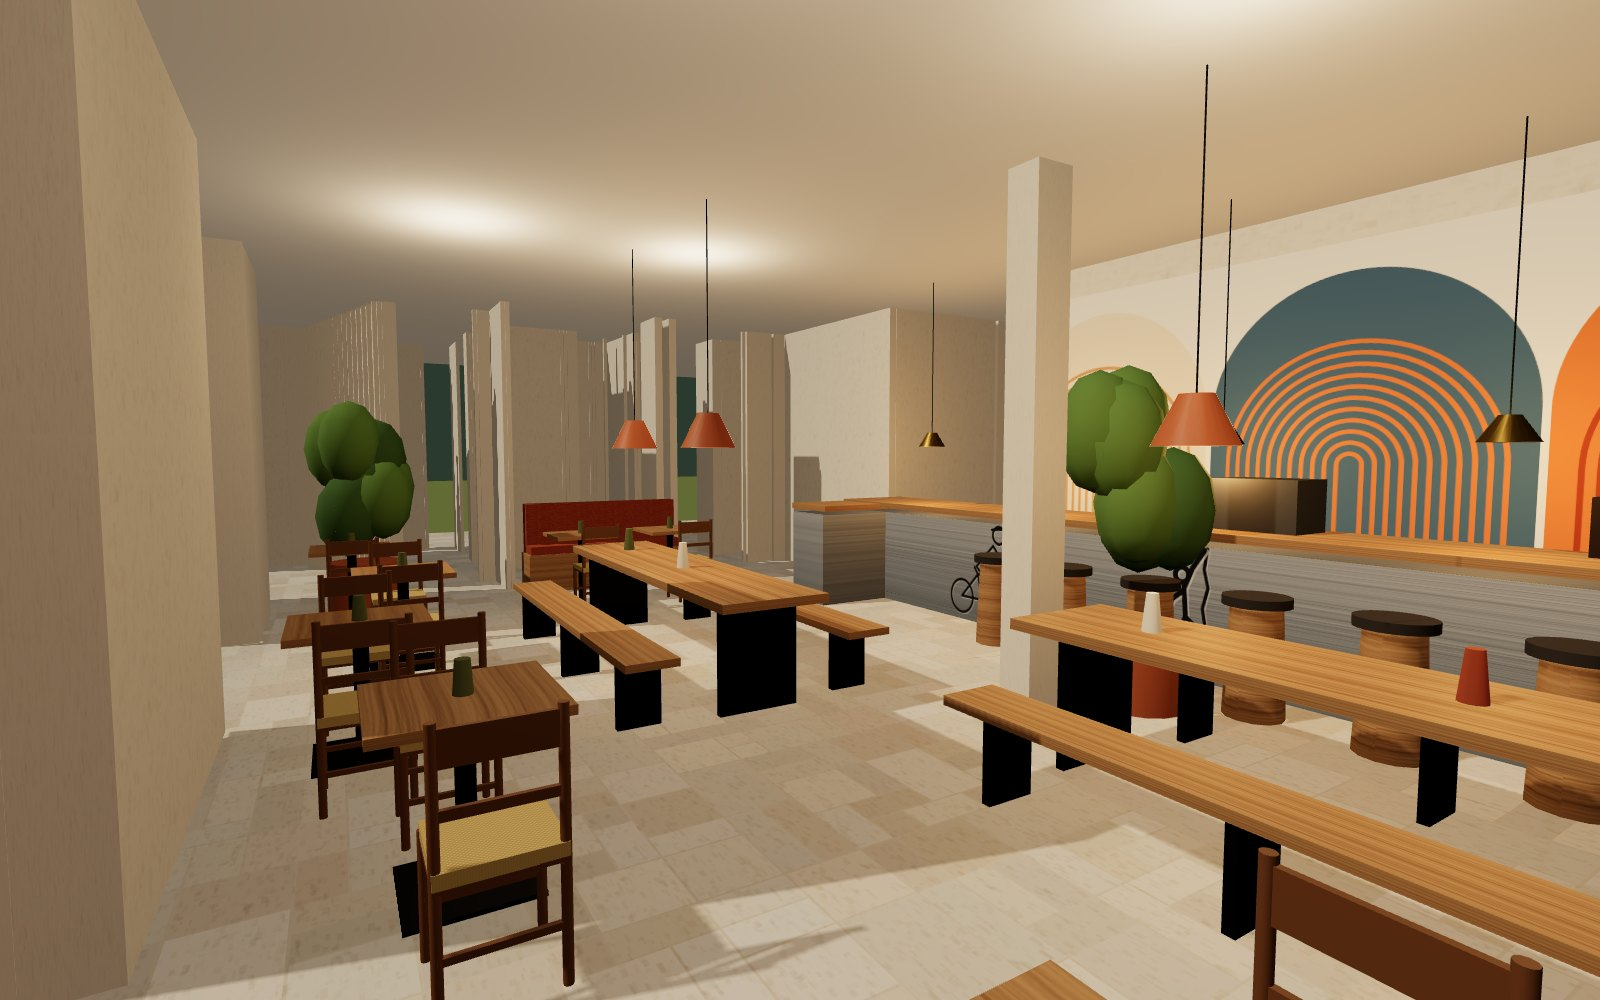
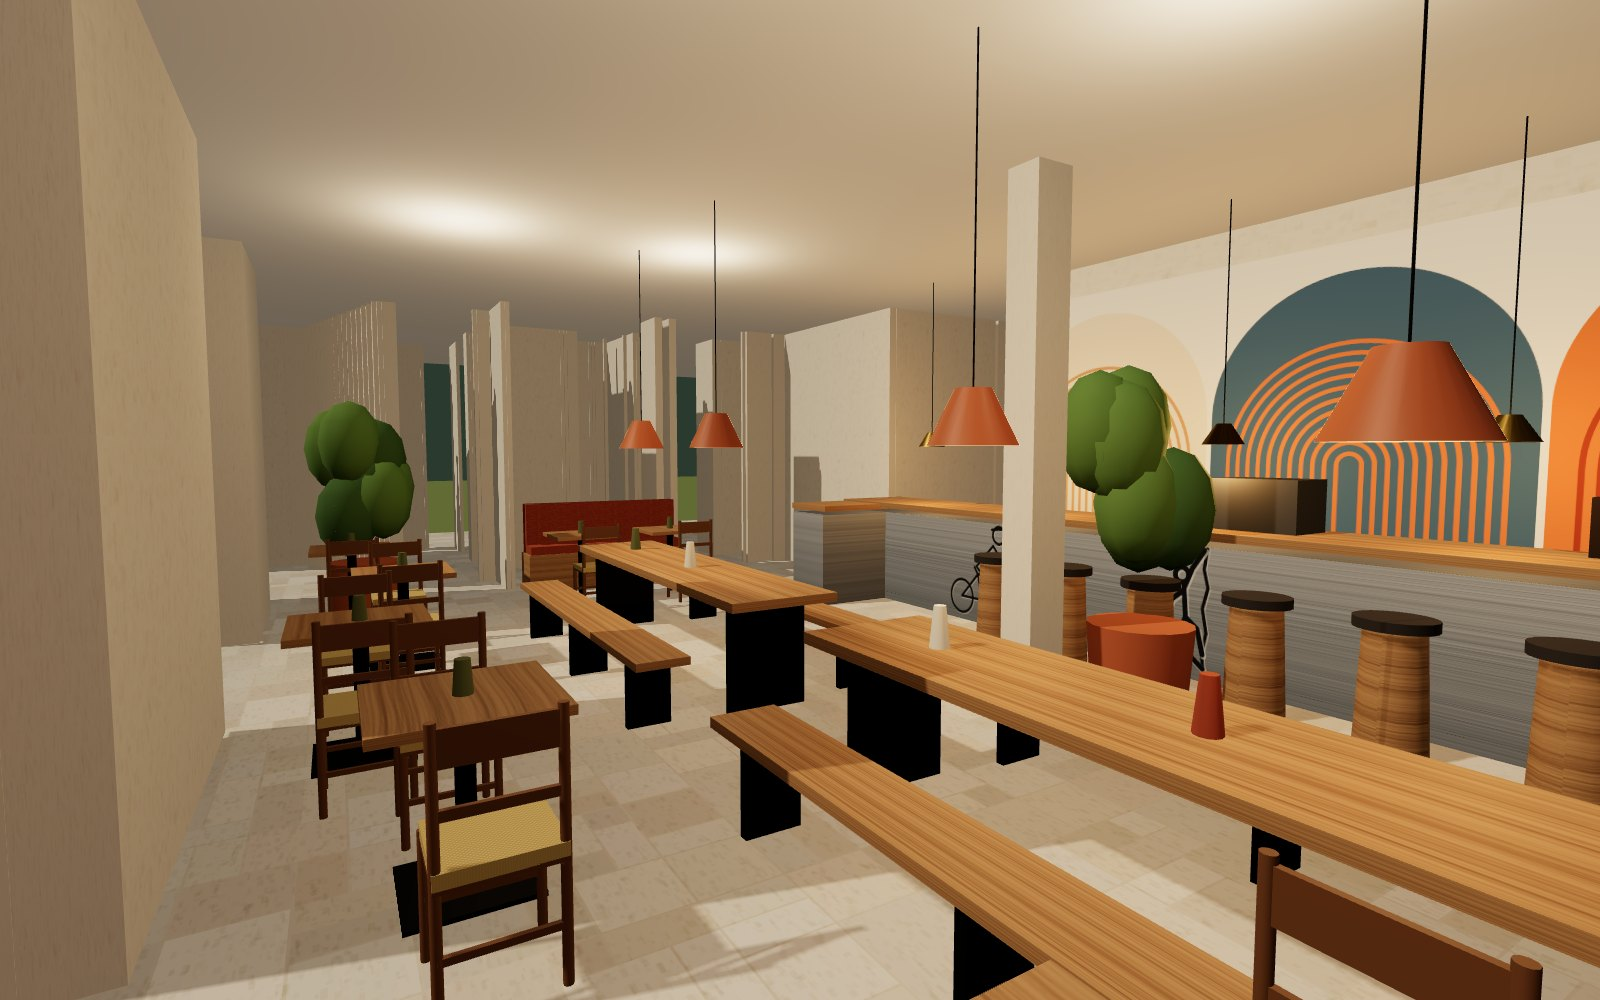
Sala: due tavolate lunghe uguali e allineate
Claude-Session: https://claude.ai/code/session_01QZXxqty357DcebAAL5Vpaf

diff --git a/render-3d/sala-tavoli-misti/sorgente/pianoterra.js b/render-3d/sala-tavoli-misti/sorgente/pianoterra.js
@@ -375,7 +375,7 @@ else { box(P(210), P(1450), HS, HS + 0.06, P(840), P(1110), M('#e9e2d6', { trans
       for (const x of [x0 + 0.35, (x0 + x1) / 2, x1 - 0.4]) { box(x, x + 0.05, 0, 0.42, bz - 0.14, bz + 0.14, ironM); } }
     for (let x = x0 + 0.6; x < x1 - 0.4; x += 1.3) cyl(x, (z0 + z1) / 2, 0.05, 0.78, 0.98, M(tc[Math.floor(rnd() * 3)]), 12, 0.03);
     for (let x = x0 + 0.8; x < x1; x += 1.6) { cyl(x, (z0 + z1) / 2, 0.004, 1.95, HS, M('#111'), 6); const sh = new THREE.Mesh(new THREE.CylinderGeometry(0.08, 0.2, 0.25, 24, 1, true), M('#b9673d', { side: THREE.DoubleSide, roughness: 0.5 })); sh.position.set(x, 1.85, (z0 + z1) / 2); scene.add(sh); const l = new THREE.PointLight('#ffc98a', 1.0, 0, 2); l.position.set(x, 1.7, (z0 + z1) / 2); scene.add(l); } };
-  longT(790, 1060, 565, 625); longT(1150, 1390, 470, 530);
+  longT(790, 1060, 560, 620); longT(1125, 1395, 560, 620);  // two equal long tables, aligned
   const roundT = (px, pz) => { const x = P(px), z = P(pz); roundTable(x, z, 0.55, 0.75, marble); for (let i = 0; i < 4; i++) { const a = i * Math.PI / 2 + Math.PI / 4; straw(x + Math.cos(a) * 0.8, z + Math.sin(a) * 0.8, Math.atan2(-Math.cos(a), -Math.sin(a)), 0); }
     cyl(x, z, 0.004, 1.9, HS, M('#111'), 6); const s = new THREE.Mesh(new THREE.SphereGeometry(0.42, 24, 12, 0, Math.PI * 2, 0, Math.PI / 2), T(texStraw, { side: THREE.DoubleSide })); s.scale.y = 0.5; s.position.set(x, 1.85, z); scene.add(s); const l = new THREE.PointLight('#ffcf94', 1.2, 0, 2); l.position.set(x, 1.7, z); scene.add(l); };
   // round white tables removed: more space in front of the bar
